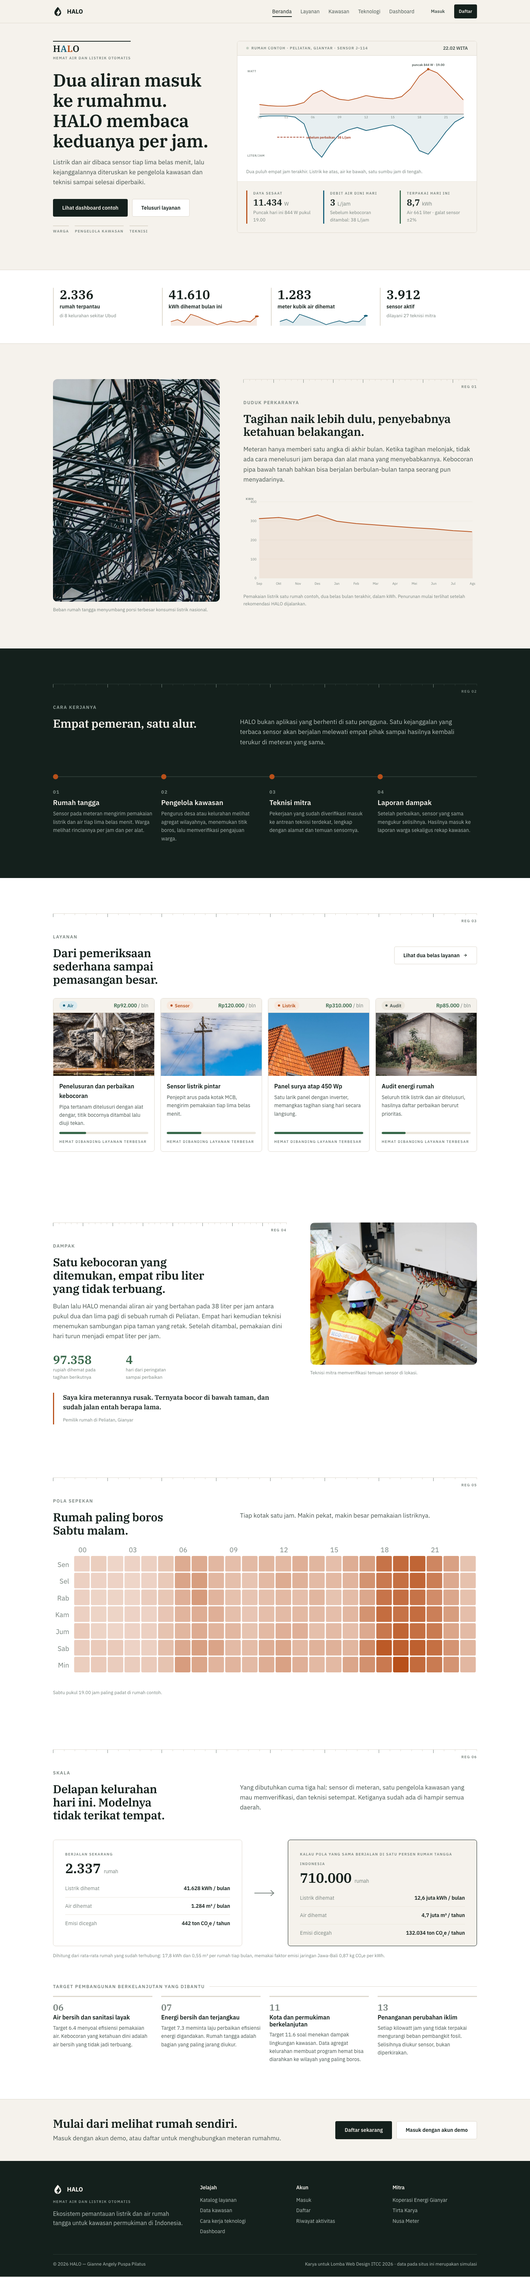
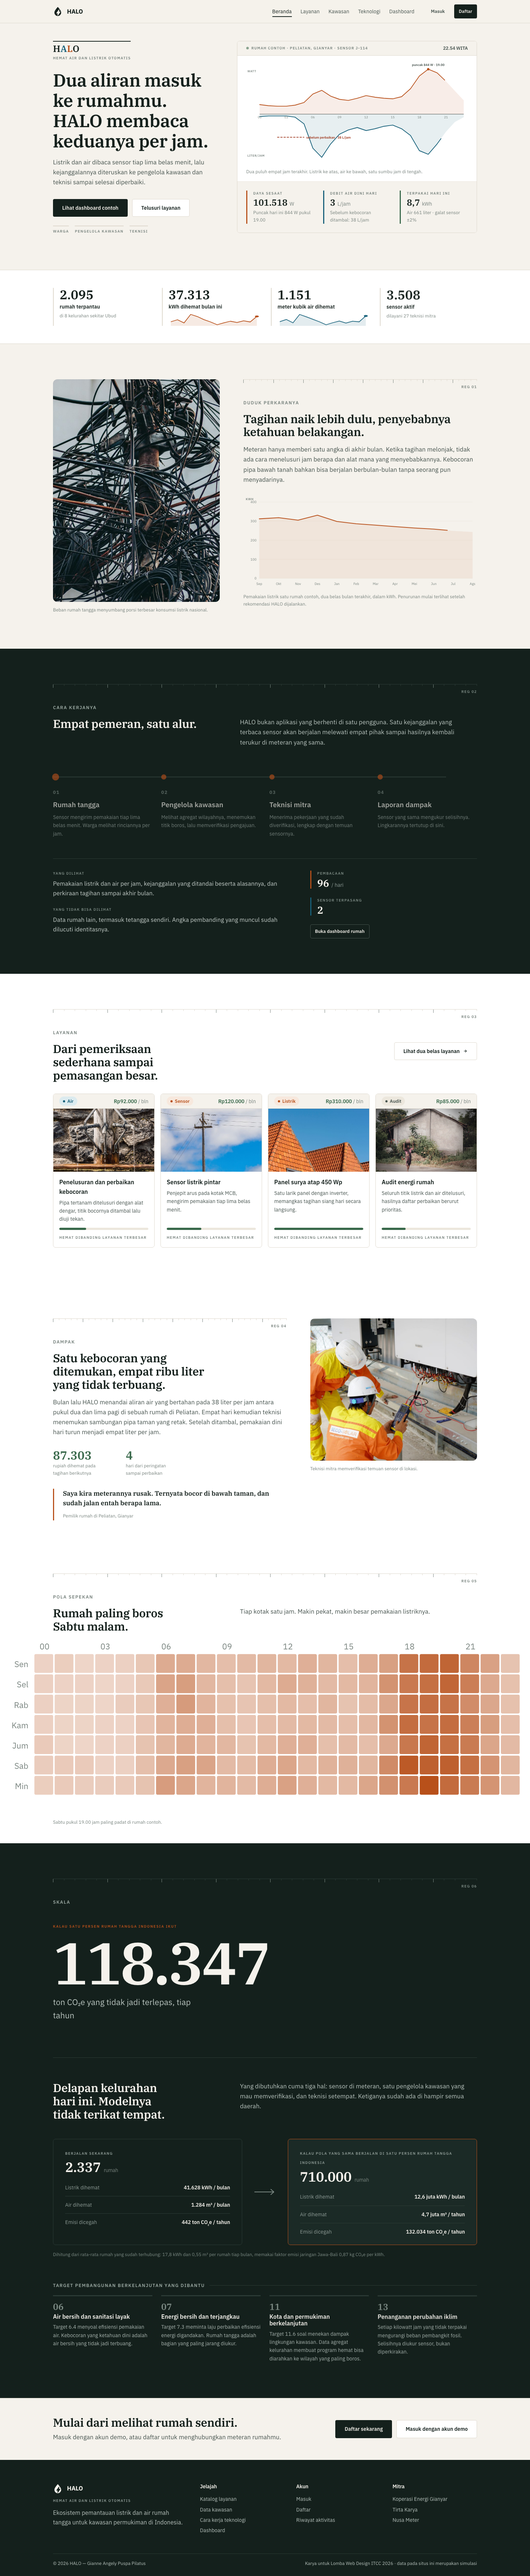
Tiga penajaman: alur bisa diklik, irama gelap-terang, satu momen angka besar
Alur empat pemeran sekarang bisa diklik. Tiap pemeran membuka panel
berisi apa yang dia lihat, apa yang tidak boleh dia lihat, dua angka
kuncinya, dan tautan ke halamannya. Ini sekaligus memperkuat sisi
ekosistem multi-pihak yang jadi inti tema, dan bisa dijalankan lewat
papan ketik dengan panah kiri-kanan.

Irama: bagian Skala jadi gelap sehingga halaman punya dua titik
kontras, bukan satu. Peta panas melebar sampai tepi layar, dari 1200
jadi 1464 piksel, sehingga selnya jauh lebih terbaca.

Momen angka besar: bagian Skala dibuka angka 132.034 setinggi layar,
dengan syaratnya ditulis di atas angkanya supaya tidak pernah terbaca
sebagai capaian yang sudah terjadi.

Pemicu urutan nyala diganti dari pengamat viewport ke hitungan jarak
gulir, karena pengamatnya sempat tidak terpanggil.

diff --git a/WD_MAHASISWA_Gianne Angely Puspa Pilatus_ITCC 2026/Gianne Angely Puspa Pilatus_Website/index.html b/WD_MAHASISWA_Gianne Angely Puspa Pilatus_ITCC 2026/Gianne Angely Puspa Pilatus_Website/index.html
@@ -166,28 +166,102 @@
         </p>
       </div>
       <div class="alur-panggung" id="alurPanggung">
-        <ol class="alur-daftar">
+        <ol class="alur-daftar" role="tablist" aria-label="Empat pemeran dalam alur HALO">
           <li data-alur="1">
-            <span class="alur-nomor">01</span>
-            <h3>Rumah tangga</h3>
-            <p>Sensor pada meteran mengirim pemakaian listrik dan air tiap lima belas menit. Warga melihat rinciannya per jam dan per alat.</p>
+            <button class="alur-btn" role="tab" aria-selected="true" data-peran="warga" id="tabWarga" aria-controls="panelWarga">
+              <span class="alur-nomor">01</span>
+              <span class="alur-judul">Rumah tangga</span>
+              <span class="alur-teks">Sensor mengirim pemakaian tiap lima belas menit. Warga melihat rinciannya per jam.</span>
+            </button>
           </li>
           <li data-alur="2">
-            <span class="alur-nomor">02</span>
-            <h3>Pengelola kawasan</h3>
-            <p>Pengurus desa atau kelurahan melihat agregat wilayahnya, menemukan titik boros, lalu memverifikasi pengajuan warga.</p>
+            <button class="alur-btn" role="tab" aria-selected="false" data-peran="kawasan" id="tabKawasan" aria-controls="panelKawasan">
+              <span class="alur-nomor">02</span>
+              <span class="alur-judul">Pengelola kawasan</span>
+              <span class="alur-teks">Melihat agregat wilayahnya, menemukan titik boros, lalu memverifikasi pengajuan.</span>
+            </button>
           </li>
           <li data-alur="3">
-            <span class="alur-nomor">03</span>
-            <h3>Teknisi mitra</h3>
-            <p>Pekerjaan yang sudah diverifikasi masuk ke antrean teknisi terdekat, lengkap dengan alamat dan temuan sensornya.</p>
+            <button class="alur-btn" role="tab" aria-selected="false" data-peran="teknisi" id="tabTeknisi" aria-controls="panelTeknisi">
+              <span class="alur-nomor">03</span>
+              <span class="alur-judul">Teknisi mitra</span>
+              <span class="alur-teks">Menerima pekerjaan yang sudah diverifikasi, lengkap dengan temuan sensornya.</span>
+            </button>
           </li>
           <li data-alur="4">
-            <span class="alur-nomor">04</span>
-            <h3>Laporan dampak</h3>
-            <p>Setelah perbaikan, sensor yang sama mengukur selisihnya. Hasilnya masuk ke laporan warga sekaligus rekap kawasan.</p>
+            <button class="alur-btn" role="tab" aria-selected="false" data-peran="dampak" id="tabDampak" aria-controls="panelDampak">
+              <span class="alur-nomor">04</span>
+              <span class="alur-judul">Laporan dampak</span>
+              <span class="alur-teks">Sensor yang sama mengukur selisihnya. Lingkarannya tertutup di sini.</span>
+            </button>
           </li>
         </ol>
+
+        <div class="alur-panel">
+          <div class="alur-isi" id="panelWarga" role="tabpanel" aria-labelledby="tabWarga" data-peran="warga">
+            <div class="alur-isi-kisi">
+              <div class="alur-uraian">
+                <p class="satuan">Yang dilihat</p>
+                <p>Pemakaian listrik dan air per jam, kejanggalan yang ditandai beserta alasannya, dan perkiraan tagihan sampai akhir bulan.</p>
+                <p class="satuan">Yang tidak bisa dilihat</p>
+                <p class="alur-tidak">Data rumah lain, termasuk tetangga sendiri. Angka pembanding yang muncul sudah dilucuti identitasnya.</p>
+              </div>
+              <div class="alur-sel">
+                <div class="sel sel-listrik"><span class="satuan sel-satuan">Pembacaan</span><span class="sel-angka">96 <span class="alat-unit">/ hari</span></span></div>
+                <div class="sel sel-air"><span class="satuan sel-satuan">Sensor terpasang</span><span class="sel-angka">2</span></div>
+                <a class="btn btn-garis btn-kecil" href="pages/dashboard.html">Buka dashboard rumah</a>
+              </div>
+            </div>
+          </div>
+
+          <div class="alur-isi" id="panelKawasan" role="tabpanel" aria-labelledby="tabKawasan" data-peran="kawasan" hidden>
+            <div class="alur-isi-kisi">
+              <div class="alur-uraian">
+                <p class="satuan">Yang dilihat</p>
+                <p>Angka gabungan tiap kelurahan, peringkat antar wilayah, dan antrean pengajuan warga yang menunggu keputusan.</p>
+                <p class="satuan">Yang tidak bisa dilihat</p>
+                <p class="alur-tidak">Pemakaian per jam milik rumah tertentu. Yang sampai ke sini hanya angka yang sudah digabung.</p>
+              </div>
+              <div class="alur-sel">
+                <div class="sel sel-air"><span class="satuan sel-satuan">Rumah terhubung</span><span class="sel-angka">2.337</span></div>
+                <div class="sel sel-listrik"><span class="satuan sel-satuan">Kelurahan</span><span class="sel-angka">8</span></div>
+                <a class="btn btn-garis btn-kecil" href="pages/kawasan.html">Buka data kawasan</a>
+              </div>
+            </div>
+          </div>
+
+          <div class="alur-isi" id="panelTeknisi" role="tabpanel" aria-labelledby="tabTeknisi" data-peran="teknisi" hidden>
+            <div class="alur-isi-kisi">
+              <div class="alur-uraian">
+                <p class="satuan">Yang dilihat</p>
+                <p>Pekerjaan yang sudah lolos verifikasi, alamatnya, dan temuan sensor yang menjadi dasar pengajuan itu.</p>
+                <p class="satuan">Yang tidak bisa dilihat</p>
+                <p class="alur-tidak">Riwayat pemakaian rumah tersebut di luar temuan yang sedang dikerjakan.</p>
+              </div>
+              <div class="alur-sel">
+                <div class="sel sel-listrik"><span class="satuan sel-satuan">Teknisi aktif</span><span class="sel-angka">27</span></div>
+                <div class="sel sel-air"><span class="satuan sel-satuan">Mitra penyedia</span><span class="sel-angka">3</span></div>
+                <a class="btn btn-garis btn-kecil" href="pages/riwayat.html">Lihat alur pekerjaan</a>
+              </div>
+            </div>
+          </div>
+
+          <div class="alur-isi" id="panelDampak" role="tabpanel" aria-labelledby="tabDampak" data-peran="dampak" hidden>
+            <div class="alur-isi-kisi">
+              <div class="alur-uraian">
+                <p class="satuan">Yang diukur</p>
+                <p>Selisih sebelum dan sesudah perbaikan, oleh sensor yang sama yang menemukan masalahnya. Bukan perkiraan, bukan klaim penyedia.</p>
+                <p class="satuan">Ke mana angkanya pergi</p>
+                <p class="alur-tidak">Ke laporan pemilik rumah, dan sebagai angka gabungan ke rekap kawasan.</p>
+              </div>
+              <div class="alur-sel">
+                <div class="sel sel-hemat"><span class="satuan sel-satuan">Emisi dicegah</span><span class="sel-angka">442 <span class="alat-unit">ton / thn</span></span></div>
+                <div class="sel sel-hemat"><span class="satuan sel-satuan">Peringatan ke selesai</span><span class="sel-angka">4 <span class="alat-unit">hari</span></span></div>
+                <a class="btn btn-garis btn-kecil" href="#skala">Lihat hitungan skalanya</a>
+              </div>
+            </div>
+          </div>
+        </div>
       </div>
     </div>
   </section>
@@ -305,16 +379,27 @@
         <h2>Rumah paling boros Sabtu malam.</h2>
         <p class="pengantar">Tiap kotak satu jam. Makin pekat, makin besar pemakaian listriknya.</p>
       </div>
+    </div>
+    <div class="panas-lebar">
       <div class="gr-wadah gulir-x"><div id="petaPanasBeranda"></div></div>
+    </div>
+    <div class="wrap">
       <p class="gr-keterangan">Sabtu pukul 19.00 jam paling padat di rumah contoh.</p>
     </div>
   </section>
 
   <!-- ============ Skala dan target dunia ============ -->
-  <section class="bagian skala">
+  <section class="bagian gelap skala" id="skala">
     <div class="wrap">
       <div class="rel-tik" data-reg="06"></div>
       <p class="judul-kecil">Skala</p>
+
+      <div class="raksasa">
+        <p class="raksasa-syarat">Kalau satu persen rumah tangga Indonesia ikut</p>
+        <p class="raksasa-angka ukur" data-hitung="132034">0</p>
+        <p class="raksasa-satuan">ton CO&#8322;e yang tidak jadi terlepas, tiap tahun</p>
+      </div>
+
       <div class="skala-kepala">
         <h2>Delapan kelurahan hari ini. Modelnya tidak terikat tempat.</h2>
         <p class="pengantar">

diff --git a/WD_MAHASISWA_Gianne Angely Puspa Pilatus_ITCC 2026/Gianne Angely Puspa Pilatus_Website/css/beranda.css b/WD_MAHASISWA_Gianne Angely Puspa Pilatus_ITCC 2026/Gianne Angely Puspa Pilatus_Website/css/beranda.css
@@ -78,21 +78,49 @@
   transition: transform 1s var(--ease);
 }
 .alur-panggung.jalan .alur-daftar::before { transform: scaleX(1); }
-.alur-daftar li { position: relative; padding-top: var(--s7); opacity: .25; transition: opacity .5s var(--ease); }
-.alur-daftar li::before {
+.alur-daftar li { position: relative; }
+
+/* Tiap pemeran adalah tombol. Mengkliknya mengganti isi panel di bawah. */
+.alur-btn {
+  display: block; width: 100%; text-align: left;
+  padding: var(--s7) 0 var(--s5); opacity: .3;
+  transition: opacity .45s var(--ease);
+}
+.alur-daftar li.nyala .alur-btn { opacity: .62; }
+.alur-btn[aria-selected="true"] { opacity: 1; }
+.alur-btn::before {
   content: ''; position: absolute; left: 0; top: 9px;
   width: 14px; height: 14px; border-radius: 50%;
   background: var(--ink); border: 2px solid #2c3b36;
-  transition: border-color .4s var(--ease), background-color .4s var(--ease);
+  transition: border-color .3s var(--ease), background-color .3s var(--ease), transform .2s var(--ease);
 }
-.alur-daftar li.nyala { opacity: 1; }
-.alur-daftar li.nyala::before { background: var(--listrik); border-color: var(--listrik); }
+.alur-daftar li.nyala .alur-btn::before { background: var(--listrik); border-color: var(--listrik); }
+.alur-btn[aria-selected="true"]::before { transform: scale(1.35); }
+.alur-btn:hover { opacity: 1; }
 .alur-nomor {
   display: block; font-size: var(--fs-xs); font-weight: 700;
   letter-spacing: .12em; color: #7d8b85; margin-bottom: var(--s2);
 }
-.alur-daftar h3 { color: var(--paper); margin-bottom: var(--s2); }
-.alur-daftar p { font-size: var(--fs-sm); color: #a9b5b0; }
+.alur-judul { display: block; font-size: 1.18rem; font-weight: 600; color: var(--paper); margin-bottom: var(--s2); }
+.alur-teks { display: block; font-size: var(--fs-sm); color: #a9b5b0; }
+
+/* Panel yang isinya berganti */
+.alur-panel { margin-top: var(--s6); border-top: 1px solid #2c3b36; padding-top: var(--s6); }
+.alur-isi[hidden] { display: none; }
+.alur-isi-kisi { display: grid; grid-template-columns: 7fr 5fr; gap: var(--s8); align-items: start; }
+.alur-uraian .satuan { display: block; color: #7d8b85; margin-bottom: 6px; }
+.alur-uraian .satuan + p { color: #c3ccc8; margin-bottom: var(--s5); font-size: 1.02rem; }
+.alur-uraian .alur-tidak { color: #8f9c97; }
+.alur-uraian p:last-child { margin-bottom: 0; }
+.alur-sel { display: grid; gap: var(--s5); align-content: start; }
+.alur-sel .sel-satuan { color: #7d8b85; }
+.alur-sel .sel-angka { color: var(--paper); font-size: 1.7rem; }
+.alur-sel .alat-unit { color: #8f9c97; }
+.alur-sel .btn-garis { background: transparent; border-color: #46534e; color: var(--paper); justify-self: start; }
+.alur-sel .btn-garis:hover { border-color: var(--paper); }
+/* Isi panel bertukar dengan pergantian halus, bukan lompat */
+.alur-isi.tukar { animation: masukHalus .32s var(--ease); }
+@keyframes masukHalus { from { opacity: 0; transform: translateY(8px); } to { opacity: 1; transform: none; } }
 
 /* ---------- Layanan pilihan ---------- */
 .layanan-kepala {
@@ -150,7 +178,8 @@
   .masalah-kisi, .bukti-kisi, .alur-kepala { grid-template-columns: 1fr; gap: var(--s7); }
   .masalah-gambar img { aspect-ratio: 16 / 9; }
   .bukti-gambar { order: -1; }
-  .alur-daftar { grid-template-columns: repeat(2, 1fr); gap: var(--s6); }
+  .alur-daftar { grid-template-columns: repeat(2, 1fr); gap: var(--s5); }
+  .alur-isi-kisi { grid-template-columns: 1fr; gap: var(--s6); }
   .alur-daftar::before { display: none; }
   .unggulan { grid-template-columns: repeat(2, minmax(0, 1fr)); }
 }
@@ -160,7 +189,8 @@
   .alat-kaki { grid-template-columns: 1fr; gap: var(--s4); }
 }
 @media (max-width: 560px) {
-  .alur-daftar { grid-template-columns: 1fr; }
+  .alur-daftar { grid-template-columns: 1fr; gap: var(--s2); }
+  .alur-btn { padding-block: var(--s5) var(--s3); }
   .unggulan { grid-template-columns: 1fr; }
 
   .bukti-angka { gap: var(--s5); }
@@ -240,3 +270,44 @@
   .sdg { grid-template-columns: 1fr; }
   .skala-sisi { padding: var(--s4) var(--s5); }
 }
+
+/* ---------- Momen angka raksasa ----------
+   Satu-satunya tempat huruf dibiarkan sebesar ini. Syaratnya ditulis
+   di atas angkanya, bukan di bawah, supaya angkanya tidak pernah
+   terbaca sebagai capaian yang sudah terjadi. */
+.raksasa { padding-block: var(--s6) var(--s9); border-bottom: 1px solid #2c3b36; margin-bottom: var(--s8); }
+.raksasa-syarat {
+  font-size: 10px; font-weight: 600; text-transform: uppercase;
+  letter-spacing: .16em; color: var(--listrik); margin-bottom: var(--s4);
+}
+.raksasa-angka {
+  font-family: 'Plex Serif', Georgia, serif; font-weight: 600;
+  font-size: clamp(3.5rem, 1rem + 11vw, 10rem); line-height: .92;
+  letter-spacing: -.03em; color: var(--paper);
+}
+.raksasa-satuan {
+  font-size: clamp(1rem, .8rem + .7vw, 1.4rem); color: #b9c4bf;
+  margin-top: var(--s4); max-width: 30ch;
+}
+
+/* ---------- Bagian Skala versi gelap ---------- */
+.skala { background: var(--ink); }
+.skala .skala-sisi { border-color: #2c3b36; }
+.skala .skala-sisi-besar { background: #1b2a26; border-color: var(--listrik); }
+.skala .satuan { color: #8f9c97; }
+.skala .skala-angka { color: var(--paper); }
+.skala .skala-rinci li { border-bottom-color: #2c3b36; }
+.skala .skala-rinci span { color: #8f9c97; }
+.skala .skala-rinci strong { color: var(--paper); }
+.skala .hemat-warna { color: #7fb894; }
+.skala .skala-panah svg path { stroke: #7d8b85; }
+.skala .sdg li { border-top-color: #2c3b36; }
+.skala .sdg-no { color: #7d8b85; }
+.skala .sdg h3 { color: var(--paper); }
+.skala .sdg p { color: #a9b5b0; }
+.skala .gr-keterangan { color: #7d8b85; }
+
+/* ---------- Peta panas selebar layar ---------- */
+.panas-lebar { padding-inline: var(--s5); margin-block: var(--s5); }
+.panas-lebar #petaPanasBeranda .gr { min-width: 900px; }
+@media (max-width: 760px) { .panas-lebar { padding-inline: var(--s4); } }

diff --git a/WD_MAHASISWA_Gianne Angely Puspa Pilatus_ITCC 2026/Gianne Angely Puspa Pilatus_Website/js/beranda.js b/WD_MAHASISWA_Gianne Angely Puspa Pilatus_ITCC 2026/Gianne Angely Puspa Pilatus_Website/js/beranda.js
@@ -83,19 +83,69 @@ document.addEventListener('DOMContentLoaded', function () {
     });
   }
 
-  /* ---------- Alur empat pemeran, menyala bergantian ---------- */
+  /* ---------- Alur empat pemeran ----------
+     Saat bagian ini masuk layar, keempat titiknya menyala berurutan
+     sekali. Setelah itu tiap pemeran bisa diklik untuk melihat apa
+     yang dia lihat dan apa yang tidak boleh dia lihat. */
   const panggung = document.getElementById('alurPanggung');
   if (panggung) {
-    const langkah = panggung.querySelectorAll('.alur-daftar li');
+    const butir = [...panggung.querySelectorAll('.alur-daftar li')];
+    const tombol = [...panggung.querySelectorAll('.alur-btn')];
+    const panel = [...panggung.querySelectorAll('.alur-isi')];
     const diam = window.matchMedia('(prefers-reduced-motion: reduce)').matches;
+
+    function pilih(peran) {
+      tombol.forEach(t => t.setAttribute('aria-selected', String(t.dataset.peran === peran)));
+      panel.forEach(p => {
+        const aktif = p.dataset.peran === peran;
+        p.hidden = !aktif;
+        if (aktif && !diam) {
+          p.classList.remove('tukar');
+          void p.offsetWidth;          /* paksa hitung ulang supaya animasinya terputar lagi */
+          p.classList.add('tukar');
+        }
+      });
+    }
+
+    panggung.querySelector('.alur-daftar').addEventListener('click', e => {
+      const t = e.target.closest('.alur-btn');
+      if (t) pilih(t.dataset.peran);
+    });
+
+    /* Panah kiri-kanan untuk berpindah lewat papan ketik */
+    tombol.forEach((t, i) => {
+      t.addEventListener('keydown', e => {
+        if (e.key !== 'ArrowRight' && e.key !== 'ArrowLeft') return;
+        e.preventDefault();
+        const j = (i + (e.key === 'ArrowRight' ? 1 : -1) + tombol.length) % tombol.length;
+        tombol[j].focus();
+        pilih(tombol[j].dataset.peran);
+      });
+    });
+
     const nyalakan = () => {
       panggung.classList.add('jalan');
-      langkah.forEach((li, i) => setTimeout(() => li.classList.add('nyala'), diam ? 0 : 320 + i * 260));
+      butir.forEach((li, i) => setTimeout(() => li.classList.add('nyala'), diam ? 0 : 320 + i * 240));
     };
-    if (!('IntersectionObserver' in window) || diam) { nyalakan(); return; }
-    const pengamat = new IntersectionObserver(e => {
-      if (e[0].isIntersecting) { nyalakan(); pengamat.disconnect(); }
-    }, { threshold: 0.35 });
-    pengamat.observe(panggung);
+    /* Dipicu dari posisi gulir langsung, bukan dari pengamat viewport.
+       Pengamat sempat tidak terpanggil pada sebagian keadaan, dan
+       hitungan jarak begini tidak punya kasus gagal. */
+    if (diam) {
+      nyalakan();
+    } else {
+      let sudah = false;
+      const periksa = () => {
+        if (sudah) return;
+        const k = panggung.getBoundingClientRect();
+        if (k.top < window.innerHeight * 0.85 && k.bottom > 0) {
+          sudah = true;
+          window.removeEventListener('scroll', periksa);
+          nyalakan();
+        }
+      };
+      window.addEventListener('scroll', periksa, { passive: true });
+      window.addEventListener('resize', periksa);
+      periksa();
+    }
   }
 });
